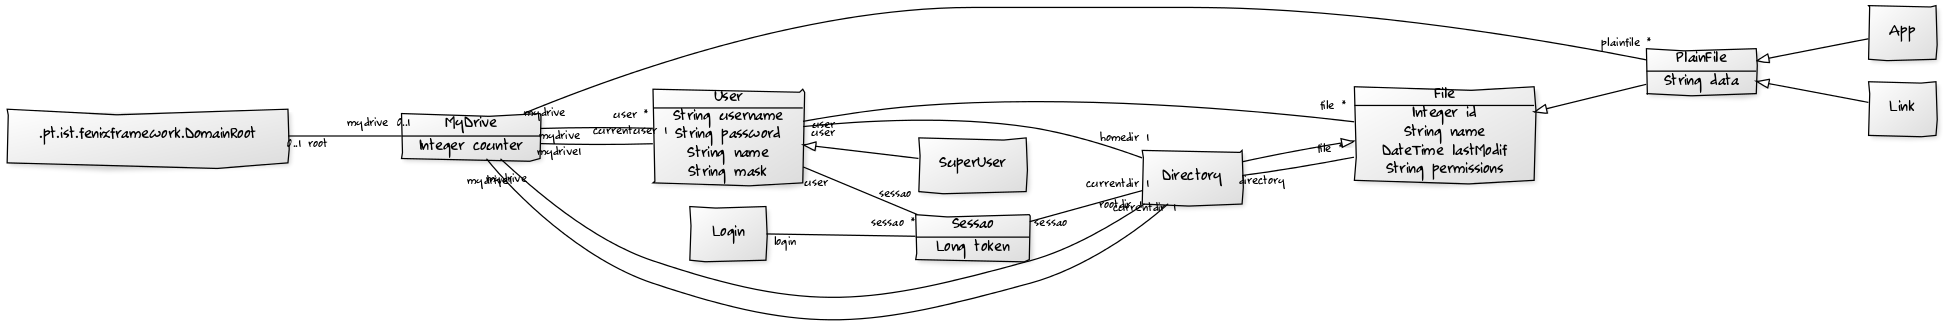
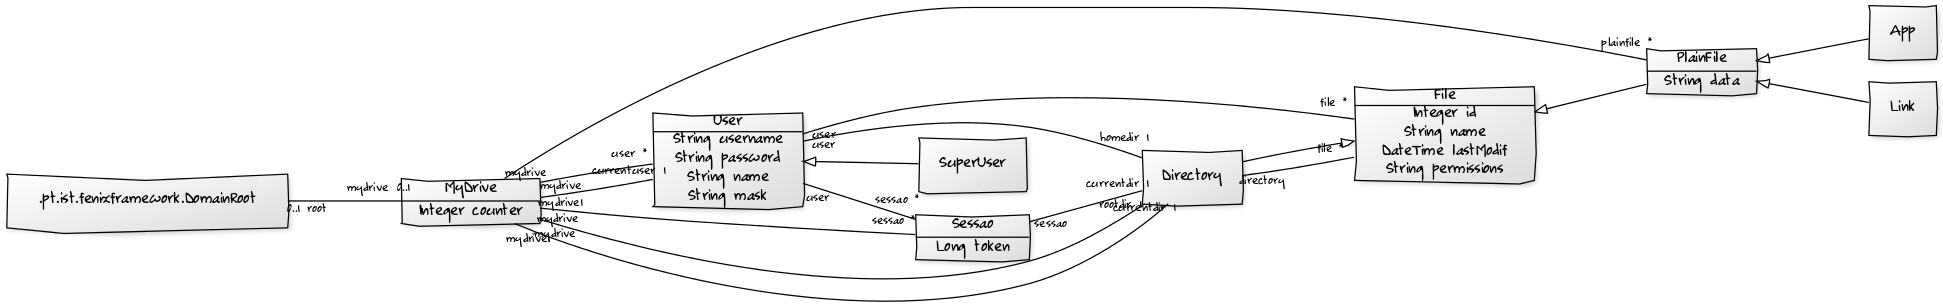
change directory added and working depending on the listDirectory

diff --git a/src/main/java/pt/tecnico/MyDrive/MyDriveApplication.java b/src/main/java/pt/tecnico/MyDrive/MyDriveApplication.java
@@ -23,7 +23,7 @@ import pt.tecnico.MyDrive.Exception.*;
 
 
 import pt.tecnico.MyDrive.domain.Directory;
-import pt.tecnico.MyDrive.domain.Login;
+
 import pt.tecnico.MyDrive.domain.MyDrive;
 import pt.tecnico.MyDrive.domain.PlainFile;
 import pt.tecnico.MyDrive.domain.Sessao;
@@ -54,7 +54,7 @@ public class MyDriveApplication {
 	public static long login(){
 		new Sessao();
 		MyDrive md = MyDrive.getInstance();
-		Login l = new Login();
+
 		boolean quit = true;
 		while(quit){
 			System.out.println("-- Login --");
@@ -67,7 +67,7 @@ public class MyDriveApplication {
 				if(user.CheckPassword(pass)){
 					System.out.println("Login Successful");
 					Sessao sessao = new Sessao();
-					l.addSessao(sessao);
+					md.addSessao(sessao);
 					user.addSessao(sessao);
 					sessao.setCurrentdir(user.getHomedir());
 					return sessao.getToken();
@@ -79,7 +79,16 @@ public class MyDriveApplication {
 	}
 
 
+public Sessao getSessaoByToken(long token){
+		MyDrive md = MyDrive.getInstance();
 
+    	for(Sessao s : md.getSessaoSet()){
+    		if(s.getToken().equals(token)){
+    			return s;
+    		}
+    	}
+    	throw new SessaoDoesNotExistException(token);
+    }
 
 
 	@Atomic
@@ -128,8 +137,10 @@ public class MyDriveApplication {
 				case 5:
 					listDirectory();
 					break;
-				case 6:
-					changeCurrentDirectory();
+				case 6:	
+					System.out.println("Insert name of Directory you want to go");
+					String name = input.next();
+					changeCurrentDirectory(name,654376);
 					break;
 				case 7:
 					removeDirectory();
@@ -158,24 +169,25 @@ public class MyDriveApplication {
 
 
 	@Atomic
-	public static void changeCurrentDirectory(){
+	public static void changeCurrentDirectory(String name, long tok){
 		MyDrive md = MyDrive.getInstance();
 		Directory dir = md.getCurrentdir();
 
-		System.out.println("Insert name of Directory you want to go");
-		String name = input.next();
 		if(name.equals(".")){
-			System.out.println("Still on same Directory");
+
+			listDirectory();/*listar O DIRECTORIO tem de funcionar bem*/
 		}
 		else if(name.equals("..")){
 			md.setCurrentdir((md.getCurrentdir()).getDirectory());
-			System.out.println("Changed to previous Directory");
+
+			listDirectory();
 		}
 		else {
 			try{
 				dir = (Directory) (dir.getDirByName(name));
-				md.setCurrentdir((Directory) dir);
-				System.out.println("Changed current Directory to " + name);
+				Sessao sessao = new Sessao();
+				sessao.setCurrentdir(dir);
+				listDirectory();
 			}catch(DirectoryDoesNotExistException | FileIsPlainFileException e){ System.err.println(e); }
 
 		}
